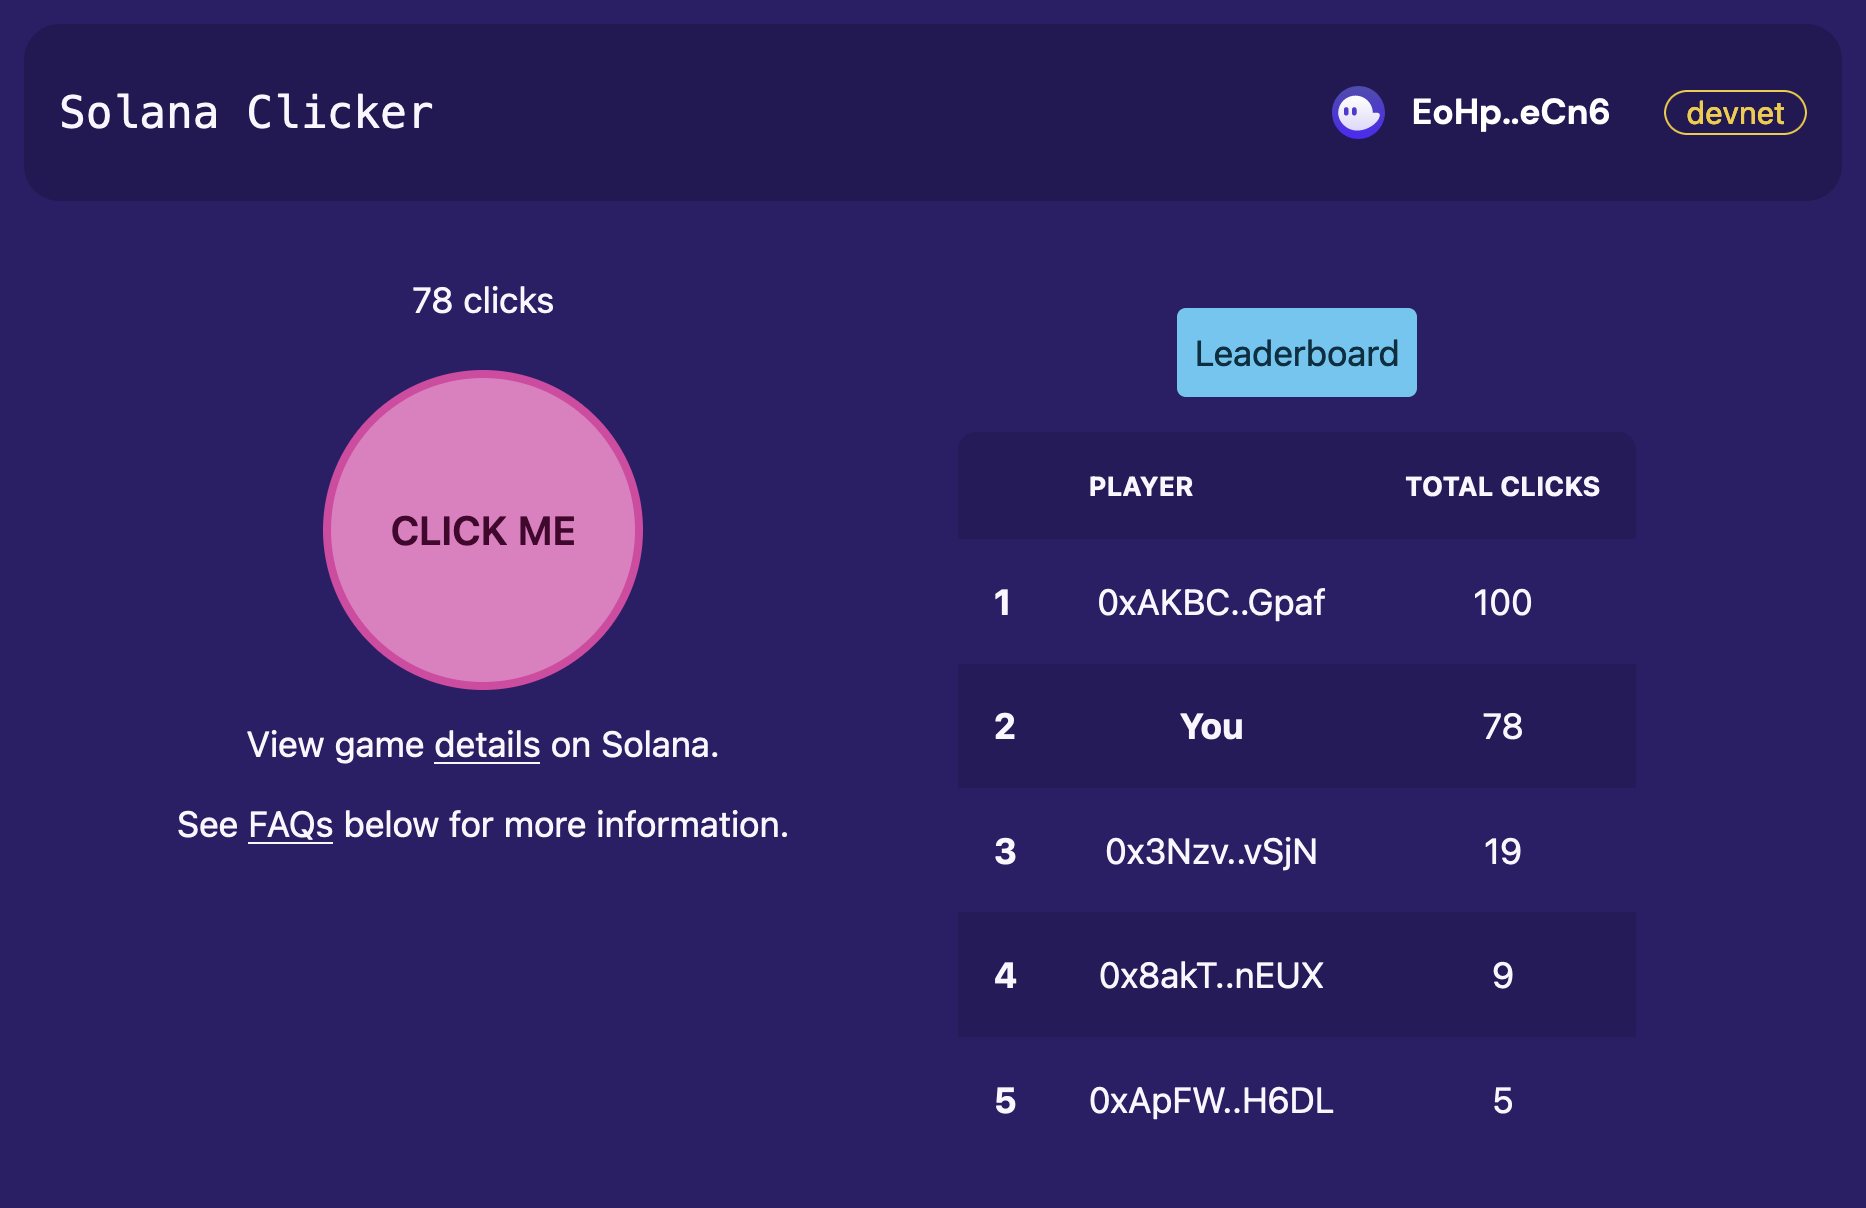
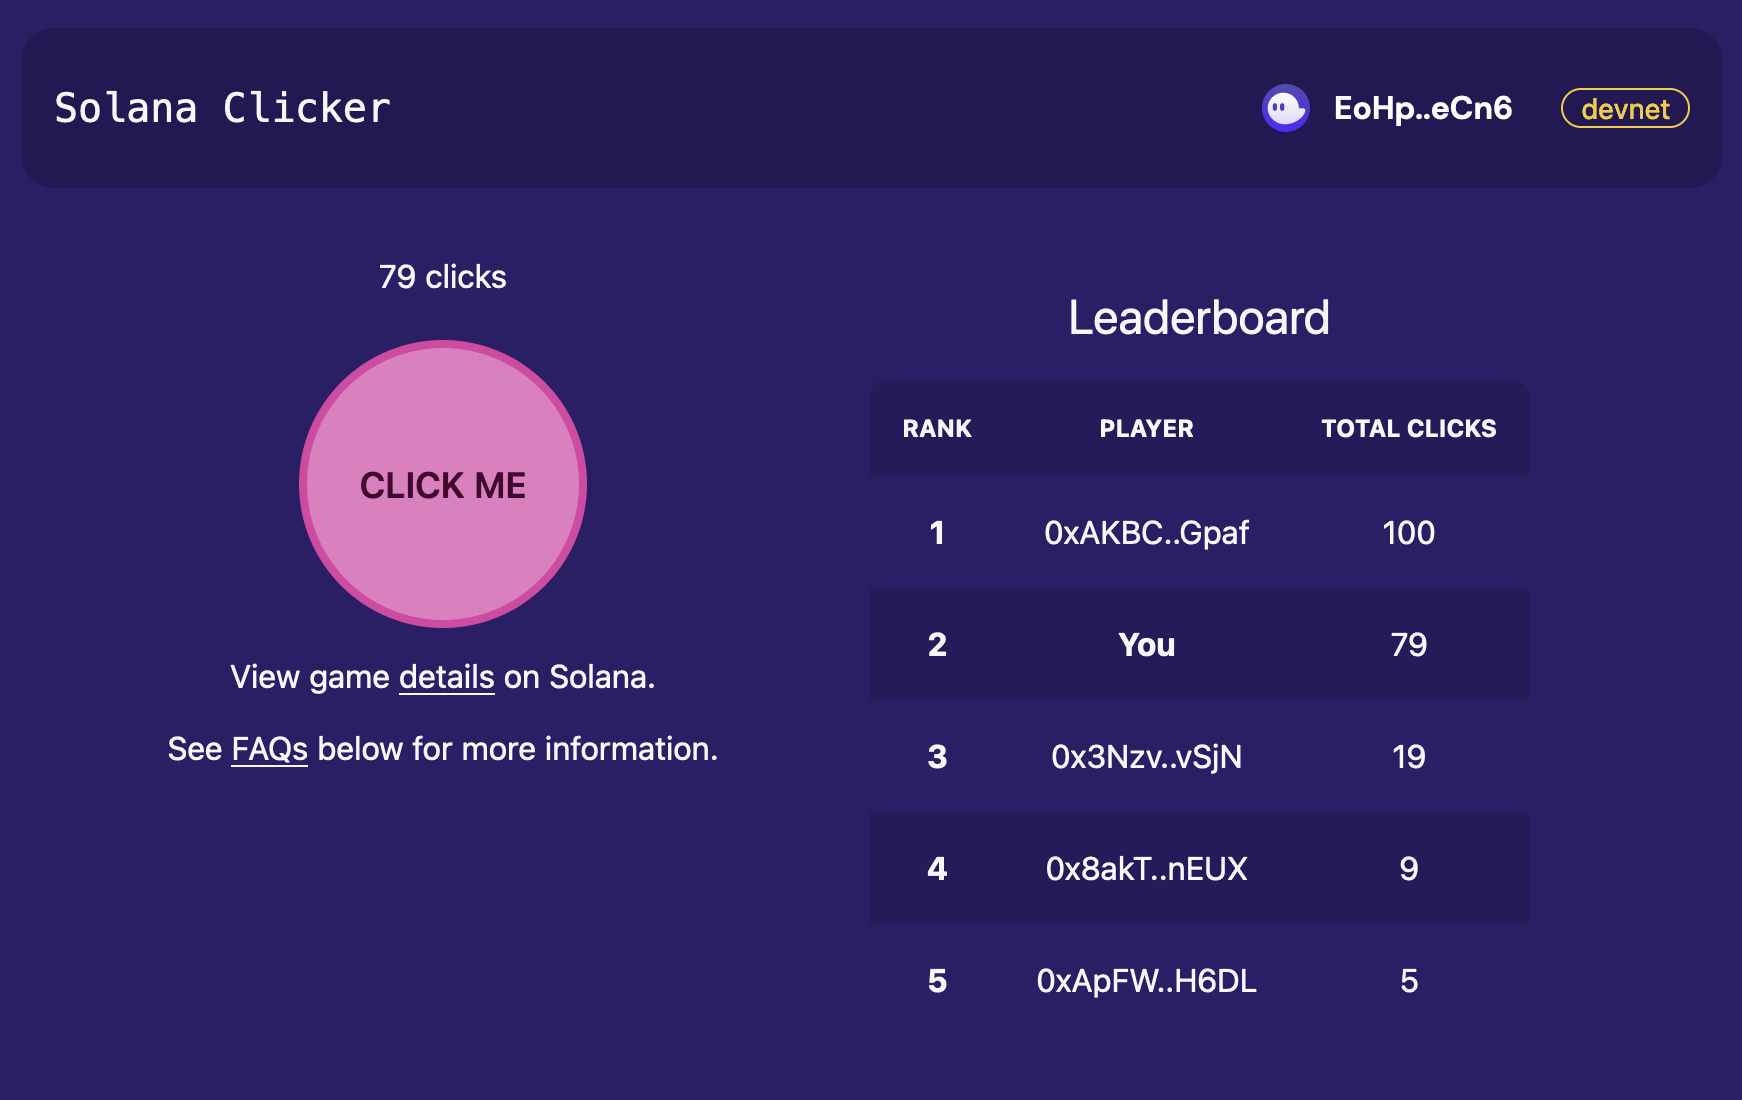
Leaderboard UI tweaks: simplify title, center data (previous title looked like a button)

diff --git a/web-ui/components/Leaderboard.tsx b/web-ui/components/Leaderboard.tsx
@@ -49,22 +49,20 @@ export default function Leaderboard({
 
   return (
     <div className="sm:p-10 items-center flex flex-col">
-      <div className="bg-secondary text-secondary-content rounded p-2 mb-4">
-        Leaderboard
-      </div>
+      <div className="text-2xl mb-4">Leaderboard</div>
       <div className="overflow-x-auto">
         <table className="table table-zebra w-full">
           <thead>
             <tr>
-              <th></th>
-              <th>Player</th>
-              <th>Total Clicks</th>
+              <th className="text-center">Rank</th>
+              <th className="text-center">Player</th>
+              <th className="text-center">Total Clicks</th>
             </tr>
           </thead>
           <tbody>
             {displayLeaders.slice(0, 10).map((leader, index) => (
               <tr key={leader.playerPublicKey}>
-                <th>{index + 1}</th>
+                <th className="text-center">{index + 1}</th>
                 <td className="text-center">
                   {leader.playerPublicKey === walletPublicKeyString ? (
                     <b>You</b>
